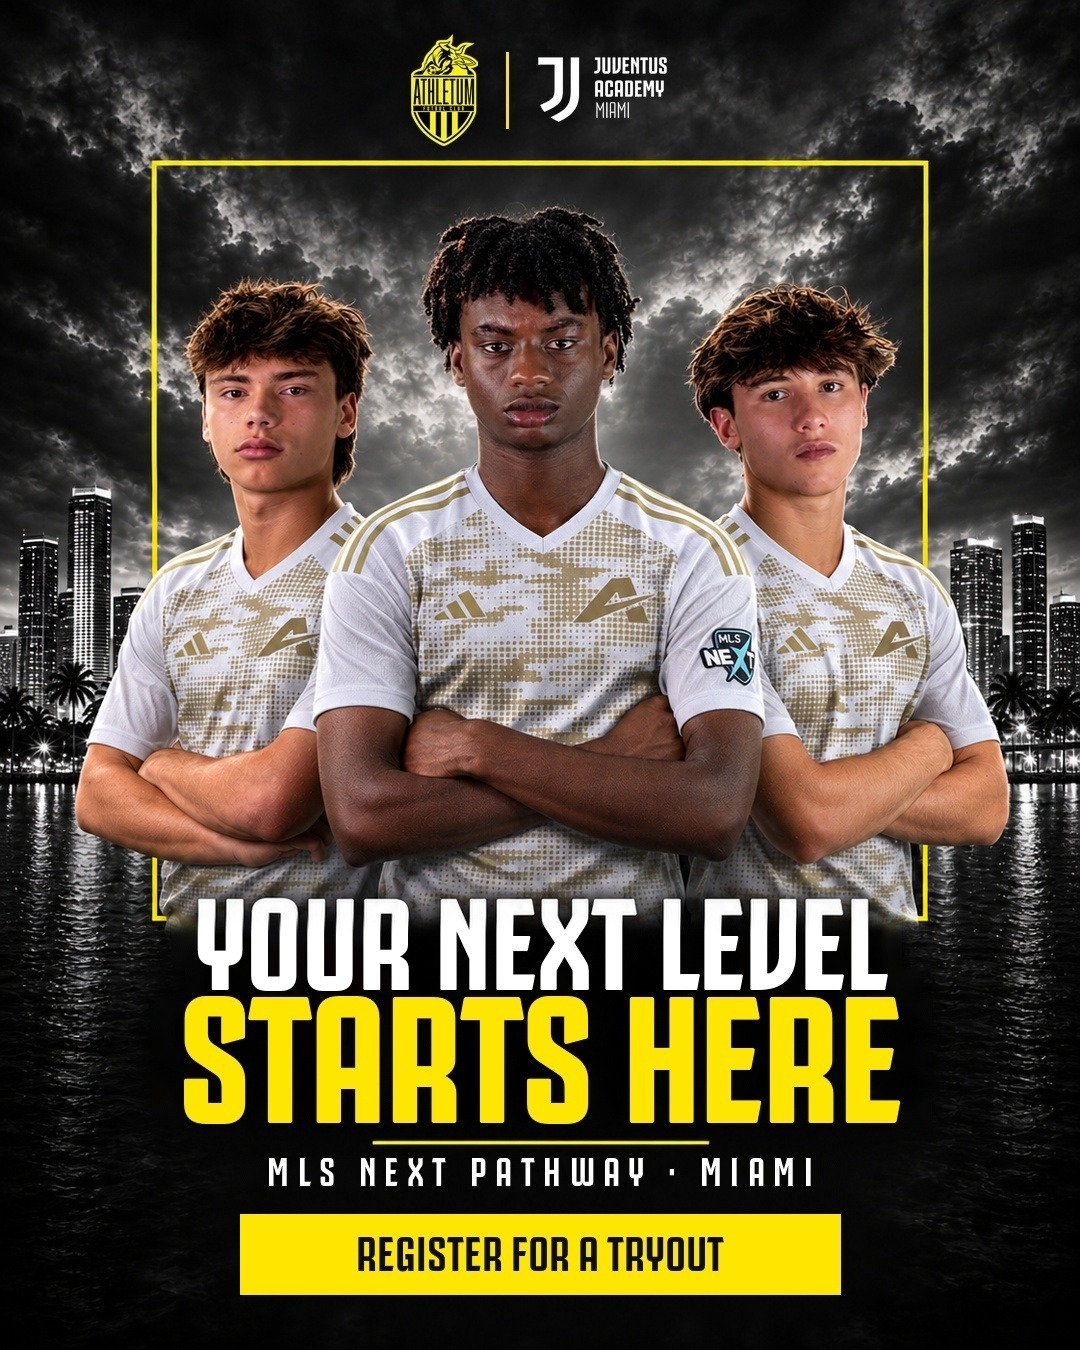
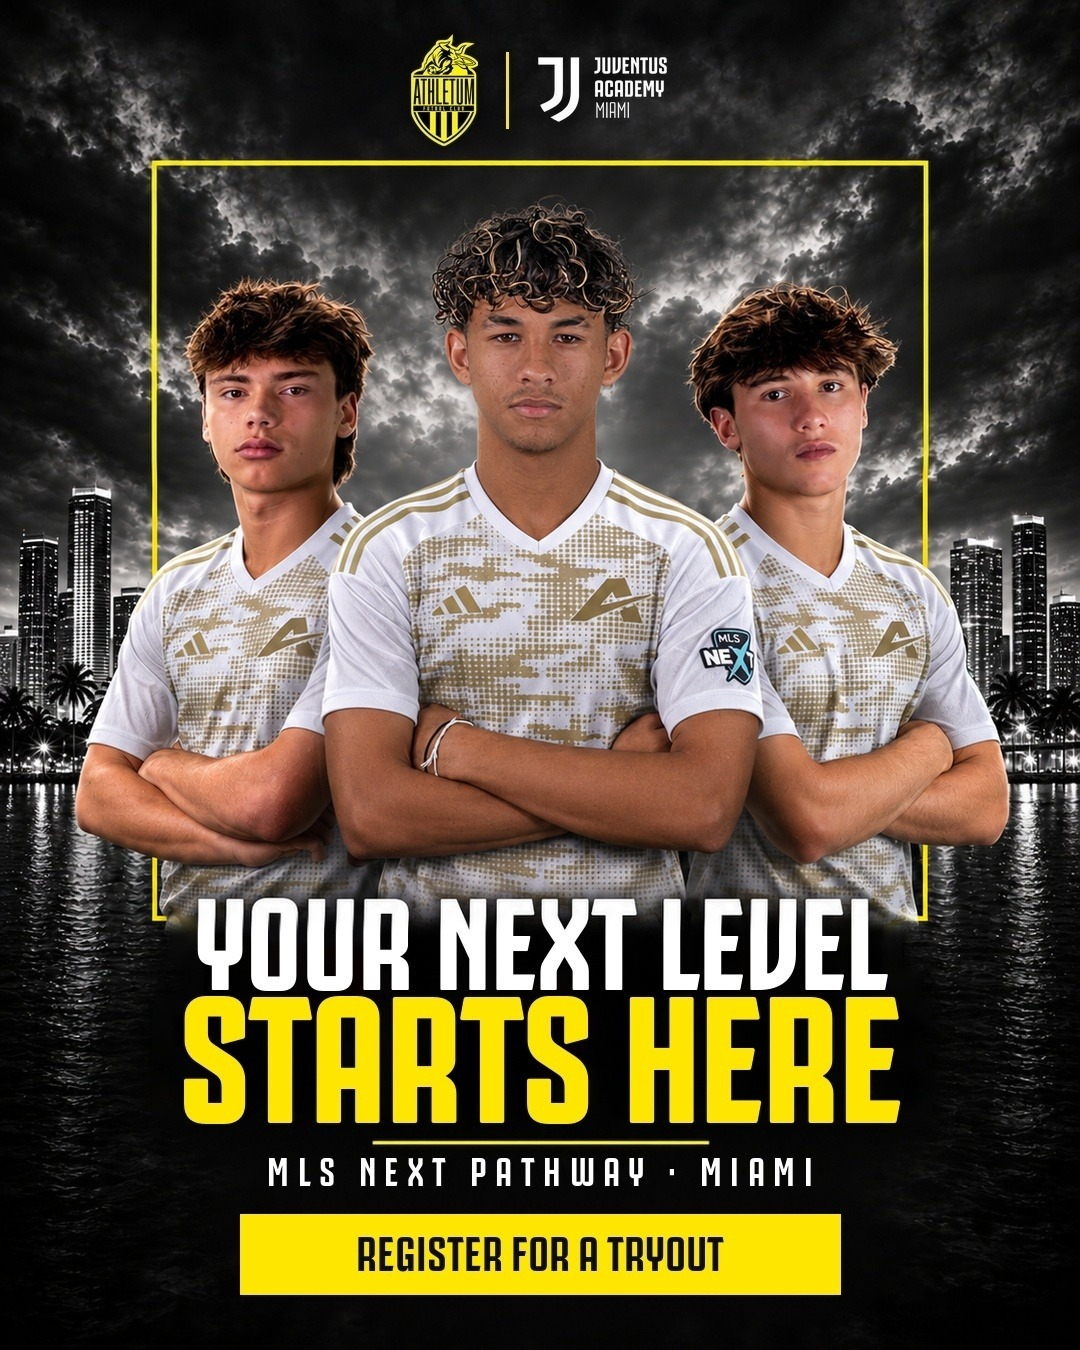
HERO con otro jugador al centro, Pathway v5 con el dibujo del director (pirámide) y nuevo S6 Where ambitious players grow (03-11)

Changed region(s): [[0.275, 0.1556, 0.7333, 0.6844], [0.6417, 0.1867, 0.7333, 0.3111], [0.275, 0.2178, 0.3361, 0.2489]]

diff --git a/index.html b/index.html
@@ -51,7 +51,7 @@ footer{margin-top:40px;color:var(--muted);font-size:14px;border-top:1px solid va
 <div class="franja"></div>
 <div class="eyebrow">Athletum FC · Meta Ads · Tryouts 2026-27 · Para aprobar</div>
 <h1>Anuncios de la campaña de tryouts</h1>
-<p class="lead">Dos anuncios para la campaña de registro al tryout de Athletum, que se pauta desde la cuenta de Juventus Academy Miami. Cada anuncio se muestra con su pieza y su texto tal como irían en Meta. Los textos se pueden corregir aquí mismo y cada anuncio se aprueba con un clic.</p>
+<p class="lead">Tres anuncios para la campaña de registro al tryout de Athletum, que se pauta desde la cuenta de Juventus Academy Miami. Cada anuncio se muestra con su pieza y su texto tal como irían en Meta. Los textos se pueden corregir aquí mismo y cada anuncio se aprueba con un clic.</p>
 <div class="segm"><b class="segm-t">Cómo se propone montar la campaña</b>
   <dl>
     <dt>Cuenta</dt><dd>Cuenta publicitaria de Juve Miami, como campaña aparte de Pre-Academy. Se publica como @juventusacademymiami.</dd>
@@ -65,11 +65,11 @@ footer{margin-top:40px;color:var(--muted);font-size:14px;border-top:1px solid va
 <p class="como"><b>Cómo aprobar:</b> si el texto está bien, botón <b>Aprobar</b>. Para corregir el texto o el título, se escribe directamente sobre ellos; el botón pasa a <b>Aprobar con texto corregido</b> y se guarda la versión nueva. También se puede dejar una nota sin aprobar. Todo queda registrado.</p>
 <div class="todo"><span class="cuenta"></span><button type="button">Aprobar todos los que faltan</button></div>
 <article class="ad base" data-id="S1">
-  <header><span class="num">1</span><h3>STATIC-1 · HERO &quot;Your next level starts here&quot;</h3><span class="estado" data-estado>Actualizada 03-11 · por aprobar</span></header>
+  <header><span class="num">1</span><h3>STATIC-1 · HERO &quot;Your next level starts here&quot;</h3><span class="estado" data-estado>Corregida 03-11 · por aprobar</span></header>
   <div class="cuerpo">
-    <div class="media"><img src="assets/S1.jpg?v=9" alt="STATIC-1 · HERO &quot;Your next level starts here&quot;" loading="lazy">
-      <a class="dl" href="assets/S1_1080.jpg?v=9" target="_blank" rel="noopener">Ver a tamaño real</a>
-      <p class="nota-pieza">Actualizada (03-11): los tres jugadores con la camiseta nueva 2026-27 blanca y dorada (mismas caras, poses, titular, logos y botón). Para redes hay una versión igual sin el botón.</p></div>
+    <div class="media"><img src="assets/S1.jpg?v=10" alt="STATIC-1 · HERO &quot;Your next level starts here&quot;" loading="lazy">
+      <a class="dl" href="assets/S1_1080.jpg?v=10" target="_blank" rel="noopener">Ver a tamaño real</a>
+      <p class="nota-pieza">Corregida según su nota (03-11): cambia solo el jugador del centro (el anterior ya sale en el post &quot;Where ambitious players grow&quot;); los de los lados, titular, logos y botón quedan igual. Los tres con la camiseta 2026-27 blanca y dorada. Para redes hay una versión igual sin el botón.</p></div>
     <div class="copy">
       <div class="lbl">Texto principal · inglés <span class="hint">· se puede editar</span></div>
       <div class="tp ed" contenteditable="true" spellcheck="true" data-campo="texto">Your next level starts here. ⚽<br><br>Athletum FC is the competitive pathway of Juventus Academy Miami: from our competitive divisions all the way to MLS NEXT, boys and girls train with coaches who know what the next level demands.<br><br>The first step is one tryout, and it&#x27;s free. Register in two minutes 👇</div>
@@ -88,16 +88,39 @@ footer{margin-top:40px;color:var(--muted);font-size:14px;border-top:1px solid va
     </div>
   </div>
 </article><article class="ad pend" data-id="S3">
-  <header><span class="num">2</span><h3>STATIC-3 · PATHWAY &quot;One club. The whole pathway.&quot;</h3><span class="estado" data-estado>Actualizada 03-11 · por aprobar</span></header>
+  <header><span class="num">2</span><h3>STATIC-3 · PATHWAY &quot;One club. The whole pathway.&quot;</h3><span class="estado" data-estado>Rehecha 03-11 · por aprobar</span></header>
   <div class="cuerpo">
-    <div class="media"><img src="assets/S3.jpg?v=9" alt="STATIC-3 · PATHWAY &quot;One club. The whole pathway.&quot;" loading="lazy">
-      <a class="dl" href="assets/S3_1080.jpg?v=9" target="_blank" rel="noopener">Ver a tamaño real</a>
-      <p class="nota-pieza">Actualizada (03-11): otro jugador (el de antes ya sale en el HERO) con la camiseta 2026-27 y escalera de 4 niveles: Pre-Academy (logo Juventus Academy Miami), Competitive (logos de las 4 ligas), MLS NEXT (con su logo) y arriba College (NCAA, NJCAA y NAIA) y Pro. Antes: escalera de 3 escalones: Pre-Academy (logo Juventus Academy Miami), Division 3 · 2 · 1 · Elite (logos de EDP Florida, Florida Academy League, South Florida Premier League y National Academy League) y MLS NEXT (Academy y Homegrown juntos, con su logo). El texto también se ajustó a los 3 niveles.</p></div>
+    <div class="media"><img src="assets/S3.jpg?v=10" alt="STATIC-3 · PATHWAY &quot;One club. The whole pathway.&quot;" loading="lazy">
+      <a class="dl" href="assets/S3_1080.jpg?v=10" target="_blank" rel="noopener">Ver a tamaño real</a>
+      <p class="nota-pieza">Rehecha con el dibujo del director (03-11): pirámide de escalones. Abajo Pre-Academy (logo Juventus Academy Miami) y Competitive (logos de las 4 ligas); luego dos escalones al mismo nivel, Juventus Residency y MLS NEXT; y encima los tres destinos a los que se llega desde los dos: MLS NEXT Pro, College (NCAA, NJCAA y NAIA) y en la cima Pro / Semi-pro around the world. Versión anterior (03-11, mañana): otro jugador (el de antes ya sale en el HERO) con la camiseta 2026-27 y escalera de 4 niveles: Pre-Academy (logo Juventus Academy Miami), Competitive (logos de las 4 ligas), MLS NEXT (con su logo) y arriba College (NCAA, NJCAA y NAIA) y Pro. Antes: escalera de 3 escalones: Pre-Academy (logo Juventus Academy Miami), Division 3 · 2 · 1 · Elite (logos de EDP Florida, Florida Academy League, South Florida Premier League y National Academy League) y MLS NEXT (Academy y Homegrown juntos, con su logo). El texto también se ajustó a los 3 niveles.</p></div>
     <div class="copy">
       <div class="lbl">Texto principal · inglés <span class="hint">· se puede editar</span></div>
-      <div class="tp ed" contenteditable="true" spellcheck="true" data-campo="texto">Where does your player fit today? 🤔<br><br>Pre-Academy, Competitive, MLS NEXT and then College or Pro: at Athletum FC the whole pathway is in one club, so every player trains at the right level and knows the next step.<br><br>A free tryout tells you where to start 👇</div>
+      <div class="tp ed" contenteditable="true" spellcheck="true" data-campo="texto">Where does your player fit today? 🤔<br><br>Pre-Academy, Competitive, then MLS NEXT or the Juventus Residency, and from there MLS NEXT Pro, College or the pros around the world: at Athletum FC the whole pathway is in one club, so every player trains at the right level and knows the next step.<br><br>A free tryout tells you where to start 👇</div>
       <div class="lbl">Versión en español, para probar <span class="hint">· se puede editar</span></div>
-      <div class="tp ed es" contenteditable="true" spellcheck="true" data-campo="texto_es">¿En qué nivel está tu hijo hoy? 🤔<br><br>Pre-Academy, Competitive, MLS NEXT y después College o Pro: en Athletum FC todo el camino está en un solo club, así que cada jugador entrena en su nivel y sabe cuál es el siguiente paso.<br><br>Un tryout gratis te dice por dónde empezar 👇</div>
+      <div class="tp ed es" contenteditable="true" spellcheck="true" data-campo="texto_es">¿En qué nivel está tu hijo hoy? 🤔<br><br>Pre-Academy, Competitive, luego MLS NEXT o la Juventus Residency, y desde ahí MLS NEXT Pro, College o el fútbol profesional en el mundo: en Athletum FC todo el camino está en un solo club, así que cada jugador entrena en su nivel y sabe cuál es el siguiente paso.<br><br>Un tryout gratis te dice por dónde empezar 👇</div>
+      <div class="lbl">Título <span class="hint">· se puede editar</span></div>
+      <div class="tit ed" contenteditable="true" spellcheck="true" data-campo="titulo">Register for a free tryout</div>
+      <div class="lbl">Botón</div><p class="btn">Sign Up</p>
+      <div class="acciones">
+        <button type="button" class="aprobar" data-accion="aprobar">Aprobar</button>
+        <button type="button" class="sec" data-accion="nota">Dejar una nota</button>
+        <button type="button" class="sec deshacer" data-accion="restaurar" hidden>Volver al texto original</button>
+      </div>
+      <div class="nota" hidden><textarea rows="2" placeholder="Nota para este anuncio (opcional)"></textarea><button type="button" class="sec" data-accion="enviar-nota">Enviar nota</button></div>
+      <p class="aviso" data-aviso aria-live="polite"></p>
+    </div>
+  </div>
+</article><article class="ad pend" data-id="S6">
+  <header><span class="num">3</span><h3>STATIC-6 · &quot;Where ambitious players grow&quot;</h3><span class="estado" data-estado>Nueva 03-11 · por aprobar</span></header>
+  <div class="cuerpo">
+    <div class="media"><img src="assets/S6.jpg?v=10" alt="STATIC-6 · &quot;Where ambitious players grow&quot;" loading="lazy">
+      <a class="dl" href="assets/S6_1080.jpg?v=10" target="_blank" rel="noopener">Ver a tamaño real</a>
+      <p class="nota-pieza">Nueva (reunión 03-11): el post de Juventus Academy Miami del 16-07-2026, actualizado para la pauta: los tres jugadores con la camiseta 2026-27 blanca y dorada; textos, iconos, logos de las ligas, botón y escudo quedan como en el original.</p></div>
+    <div class="copy">
+      <div class="lbl">Texto principal · inglés <span class="hint">· se puede editar</span></div>
+      <div class="tp ed" contenteditable="true" spellcheck="true" data-campo="texto">Where ambitious players grow. ⚽🔥<br><br>At Athletum FC, players train in a competitive environment built to help them grow, compete and reach their full potential: an elite development pathway, top-level competition and exposure to college, professional and international soccer.<br><br>The next level starts with one free tryout. Register in two minutes 👇</div>
+      <div class="lbl">Versión en español, para probar <span class="hint">· se puede editar</span></div>
+      <div class="tp ed es" contenteditable="true" spellcheck="true" data-campo="texto_es">Donde crecen los jugadores con ambición. ⚽🔥<br><br>En Athletum FC los jugadores entrenan en un ambiente competitivo pensado para que crezcan, compitan y lleguen a su máximo nivel: un camino de desarrollo de élite, competencia del más alto nivel y vitrina hacia el college, el fútbol profesional y el internacional.<br><br>El siguiente nivel empieza con un tryout gratis. Regístrate en dos minutos 👇</div>
       <div class="lbl">Título <span class="hint">· se puede editar</span></div>
       <div class="tit ed" contenteditable="true" spellcheck="true" data-campo="titulo">Register for a free tryout</div>
       <div class="lbl">Botón</div><p class="btn">Sign Up</p>
@@ -114,7 +137,7 @@ footer{margin-top:40px;color:var(--muted);font-size:14px;border-top:1px solid va
 </div>
 <script>
 const CFG={"accion": "https://docs.google.com/forms/d/e/1FAIpQLSeGUY8Cv9Ea08X9HkdznY9pzVoUc4Gj-GdymsVTFP86wbE5sw/formResponse", "entry": {"pieza": 333677581, "cuenta": 724853821, "autor": 299801437, "comentario": 1175231019, "copy_corregido": 1649408514, "copy_original": 1637675582, "enviado": 909195940, "tipo": 1605073129, "zona": 1831673234, "fila": 1327618412}, "cuenta": "athletum_tryouts"};
-const ORIG={"S1": {"texto": "Your next level starts here. ⚽\n\nAthletum FC is the competitive pathway of Juventus Academy Miami: from our competitive divisions all the way to MLS NEXT, boys and girls train with coaches who know what the next level demands.\n\nThe first step is one tryout, and it's free. Register in two minutes 👇", "texto_es": "Tu próximo nivel empieza aquí. ⚽\n\nAthletum FC es el camino competitivo de Juventus Academy Miami: desde las divisiones competitivas hasta MLS NEXT, con entrenadores que saben lo que exige el siguiente nivel.\n\nEl primer paso es un tryout, y es gratis. Regístrate en dos minutos 👇", "titulo": "Register for a free tryout", "nombre": "STATIC-1 · HERO \"Your next level starts here\""}, "S3": {"texto": "Where does your player fit today? 🤔\n\nPre-Academy, Competitive, MLS NEXT and then College or Pro: at Athletum FC the whole pathway is in one club, so every player trains at the right level and knows the next step.\n\nA free tryout tells you where to start 👇", "texto_es": "¿En qué nivel está tu hijo hoy? 🤔\n\nPre-Academy, Competitive, MLS NEXT y después College o Pro: en Athletum FC todo el camino está en un solo club, así que cada jugador entrena en su nivel y sabe cuál es el siguiente paso.\n\nUn tryout gratis te dice por dónde empezar 👇", "titulo": "Register for a free tryout", "nombre": "STATIC-3 · PATHWAY \"One club. The whole pathway.\""}};
+const ORIG={"S1": {"texto": "Your next level starts here. ⚽\n\nAthletum FC is the competitive pathway of Juventus Academy Miami: from our competitive divisions all the way to MLS NEXT, boys and girls train with coaches who know what the next level demands.\n\nThe first step is one tryout, and it's free. Register in two minutes 👇", "texto_es": "Tu próximo nivel empieza aquí. ⚽\n\nAthletum FC es el camino competitivo de Juventus Academy Miami: desde las divisiones competitivas hasta MLS NEXT, con entrenadores que saben lo que exige el siguiente nivel.\n\nEl primer paso es un tryout, y es gratis. Regístrate en dos minutos 👇", "titulo": "Register for a free tryout", "nombre": "STATIC-1 · HERO \"Your next level starts here\""}, "S3": {"texto": "Where does your player fit today? 🤔\n\nPre-Academy, Competitive, then MLS NEXT or the Juventus Residency, and from there MLS NEXT Pro, College or the pros around the world: at Athletum FC the whole pathway is in one club, so every player trains at the right level and knows the next step.\n\nA free tryout tells you where to start 👇", "texto_es": "¿En qué nivel está tu hijo hoy? 🤔\n\nPre-Academy, Competitive, luego MLS NEXT o la Juventus Residency, y desde ahí MLS NEXT Pro, College o el fútbol profesional en el mundo: en Athletum FC todo el camino está en un solo club, así que cada jugador entrena en su nivel y sabe cuál es el siguiente paso.\n\nUn tryout gratis te dice por dónde empezar 👇", "titulo": "Register for a free tryout", "nombre": "STATIC-3 · PATHWAY \"One club. The whole pathway.\""}, "S6": {"texto": "Where ambitious players grow. ⚽🔥\n\nAt Athletum FC, players train in a competitive environment built to help them grow, compete and reach their full potential: an elite development pathway, top-level competition and exposure to college, professional and international soccer.\n\nThe next level starts with one free tryout. Register in two minutes 👇", "texto_es": "Donde crecen los jugadores con ambición. ⚽🔥\n\nEn Athletum FC los jugadores entrenan en un ambiente competitivo pensado para que crezcan, compitan y lleguen a su máximo nivel: un camino de desarrollo de élite, competencia del más alto nivel y vitrina hacia el college, el fútbol profesional y el internacional.\n\nEl siguiente nivel empieza con un tryout gratis. Regístrate en dos minutos 👇", "titulo": "Register for a free tryout", "nombre": "STATIC-6 · \"Where ambitious players grow\""}};
 
 const LSK='ath_tryouts_v1',CAMPOS=['texto','texto_es','titulo'];
 const LS={get(){try{return JSON.parse(localStorage.getItem(LSK)||'{}')}catch(e){return {}}},set(v){try{localStorage.setItem(LSK,JSON.stringify(v))}catch(e){}}};
